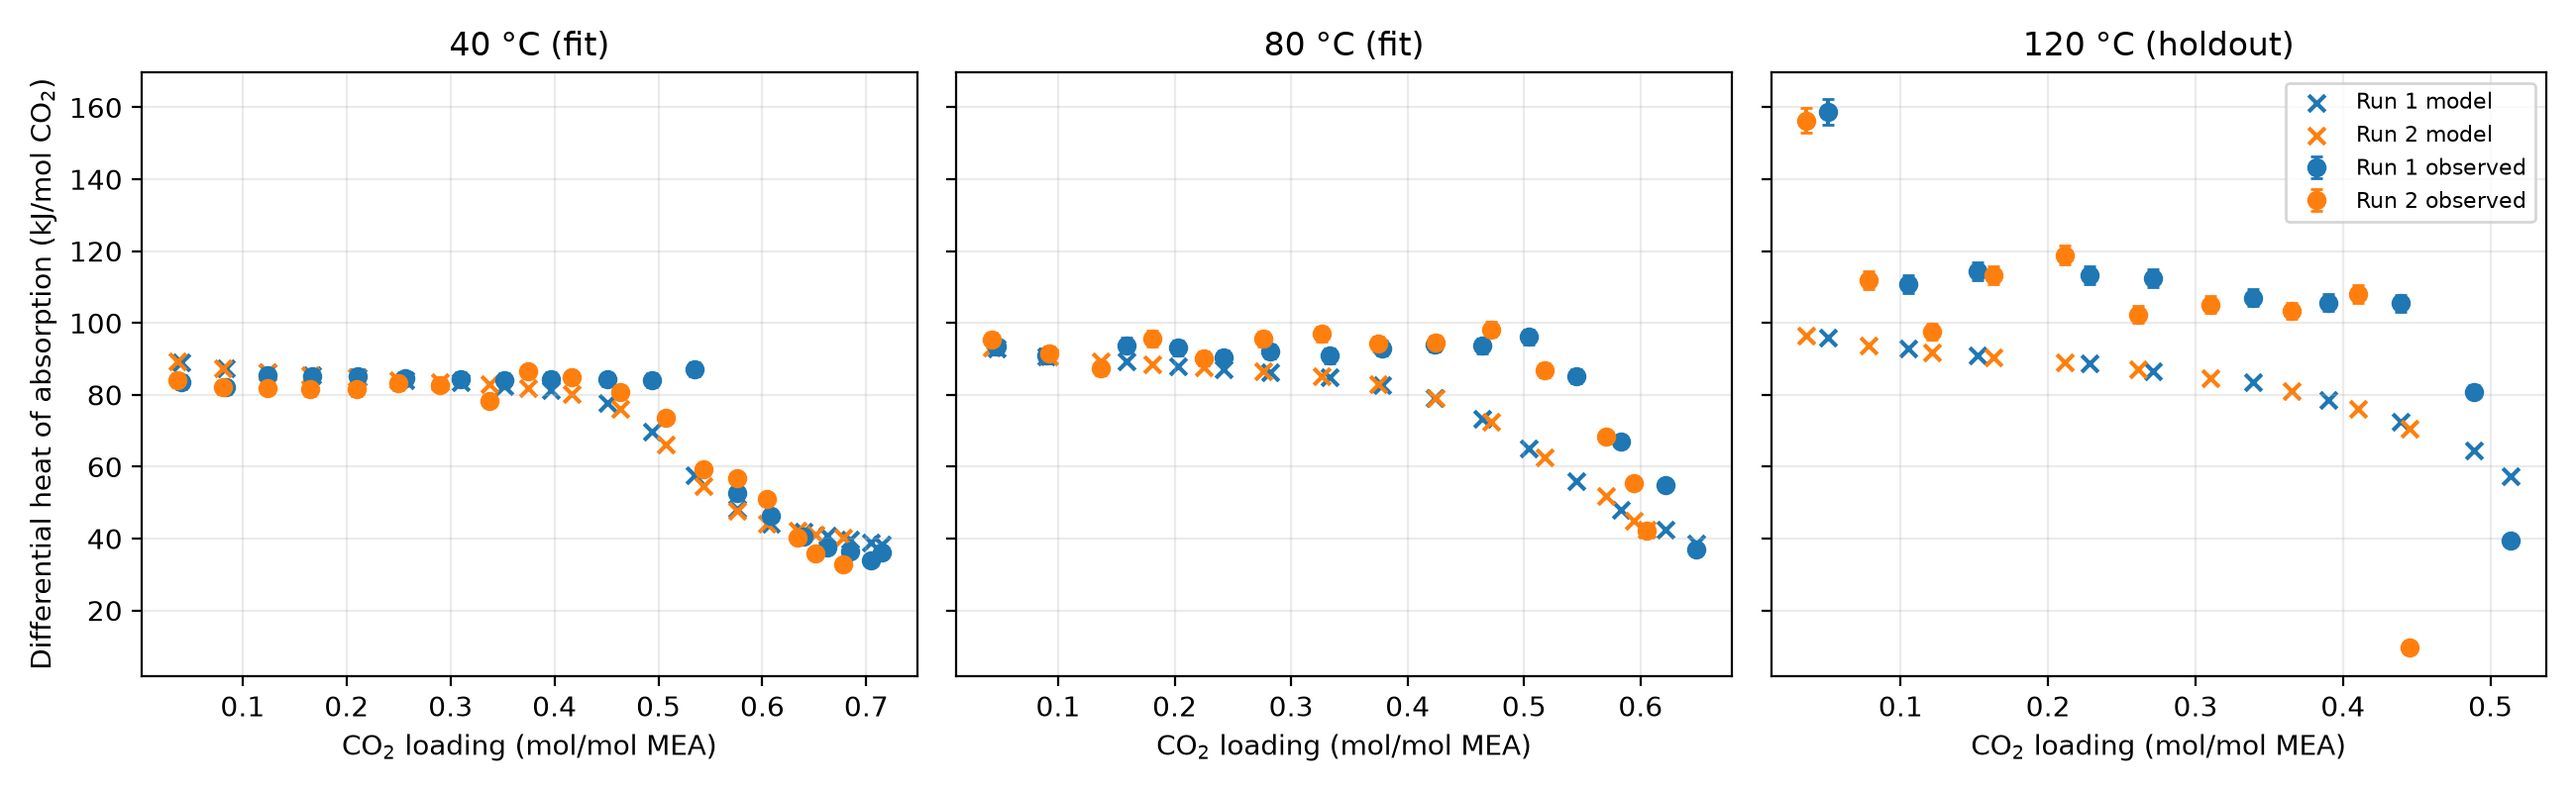
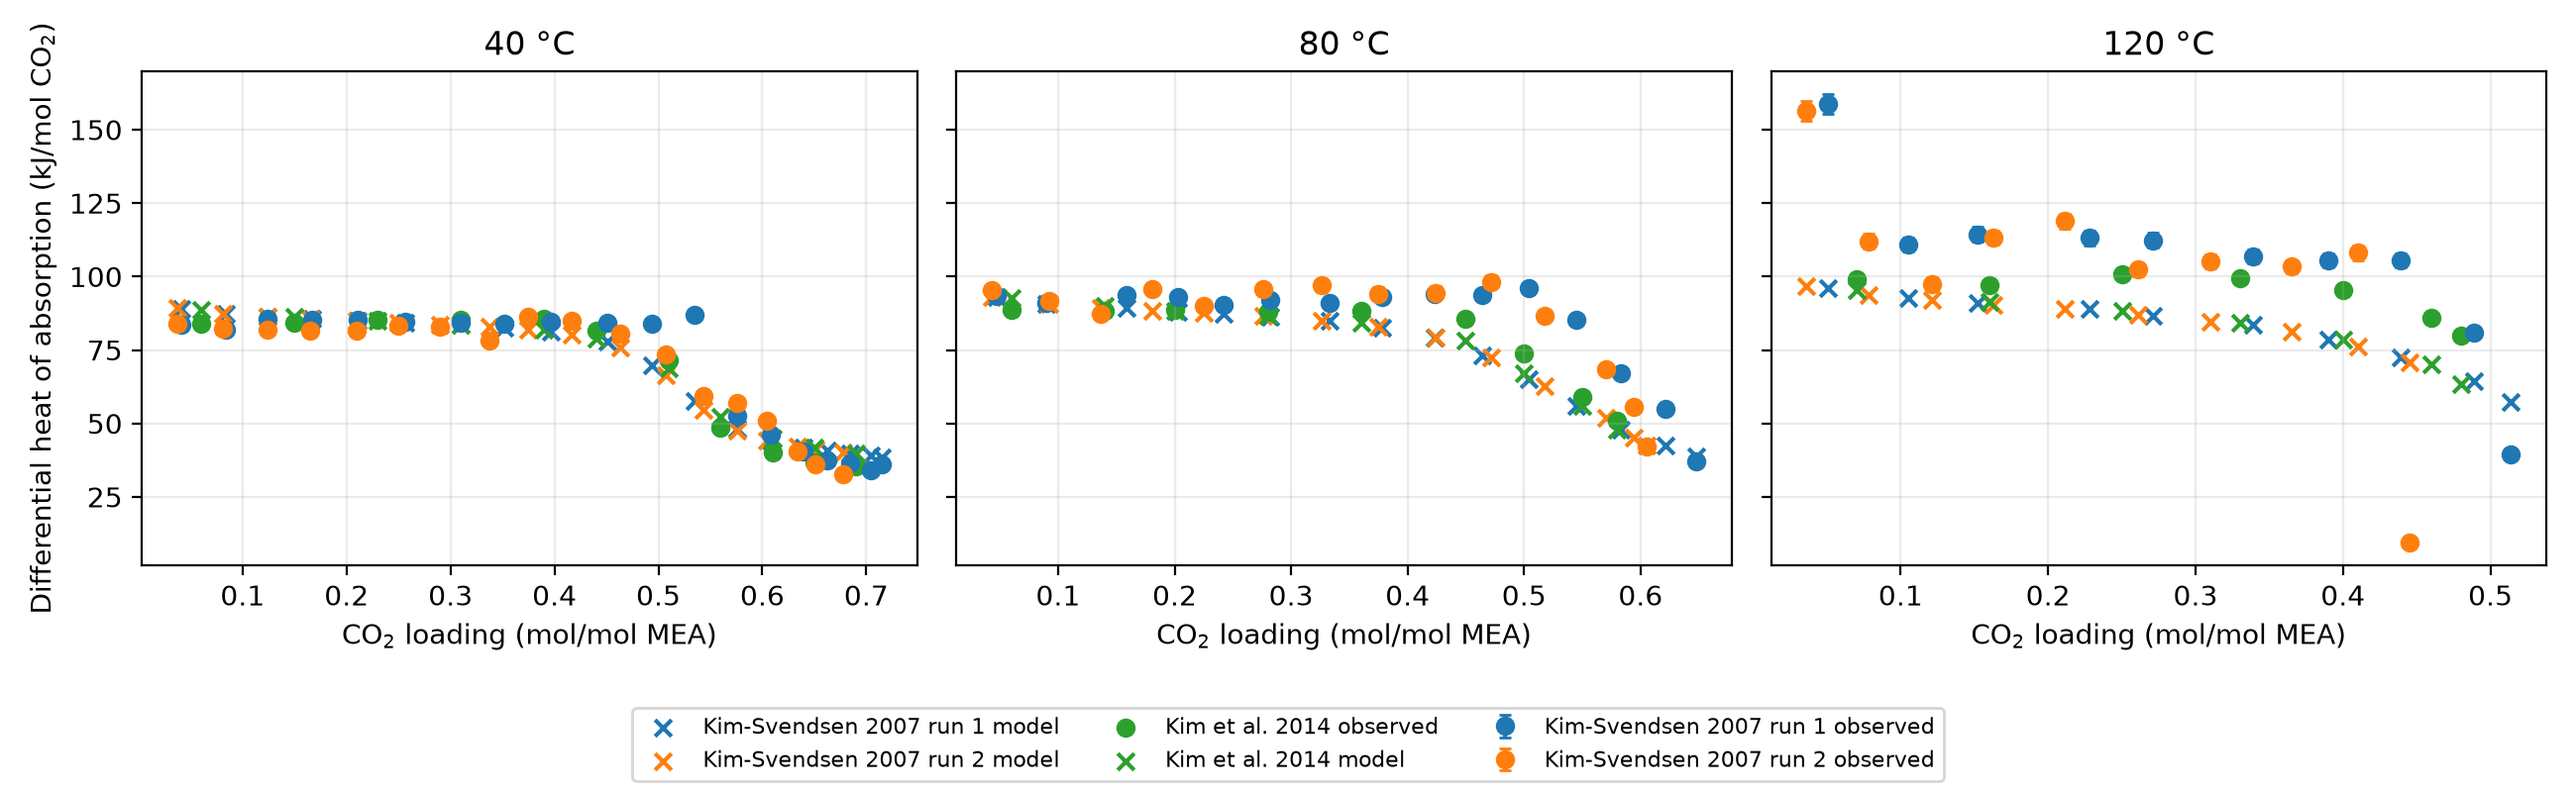
validate calorimetry against Kim 2014

diff --git a/Calorimetry_Validation.py b/Calorimetry_Validation.py
@@ -20,10 +20,24 @@ PLOT_FILE = os.path.join("data", "Plots", "Calorimetry_Validation.png")
 
 
 def generate():
-    observations = pd.read_csv(
-        os.path.join("data", "data_sets_to_load", "kim_2007_dHabs.csv")
+    inputs = [
+        ("Kim and Svendsen 2007", "kim_2007_dHabs.csv", 0.022),
+        ("Kim et al. 2014", "kim_2014_dHabs.csv", None),
+    ]
+    observations = pd.concat(
+        [
+            pd.read_csv(os.path.join("data", "data_sets_to_load", filename)).assign(
+                source=source,
+            )
+            for source, filename, _ in inputs
+        ],
+        ignore_index=True,
     )
-    groups = list(observations.groupby(["temperature", "experiment"], sort=False))
+    observations["heat_uncertainty_fraction"] = observations.source.map(
+        {source: uncertainty for source, _, uncertainty in inputs}
+    )
+    group_columns = ["source", "temperature", "experiment"]
+    groups = list(observations.groupby(group_columns, sort=False))
 
     model = pyo.ConcreteModel()
     model.params = GenericParameterBlock(**get_prop_dict(species_dic["components"]))
@@ -50,7 +64,7 @@ def generate():
 
     records = []
     start = 0
-    for (_, experiment), group in groups:
+    for (source, _, experiment), group in groups:
         old = model.states[start]
         loading_start = 0.003
         for offset, (_, row) in enumerate(group.iterrows(), start=1):
@@ -61,15 +75,24 @@ def generate():
             observed = row["dH_abs"]
             records.append(
                 {
+                    "source": source,
                     "temperature_C": row["temperature"],
                     "experiment": row["experiment"],
-                    "role": "fit" if bool(row["fit"]) else "holdout",
+                    "role": (
+                        "fit"
+                        if bool(row["fit"])
+                        else "external validation"
+                        if source == "Kim et al. 2014"
+                        else "temperature holdout"
+                    ),
                     "loading_start": loading_start,
                     "loading_end": row["CO2_loading"],
                     "observed_kJ_mol_CO2": observed,
                     "predicted_kJ_mol_CO2": predicted,
                     "residual_kJ_mol_CO2": predicted - observed,
-                    "observed_uncertainty_kJ_mol_CO2": 0.022 * observed,
+                    "observed_uncertainty_kJ_mol_CO2": (
+                        row["heat_uncertainty_fraction"] * observed
+                    ),
                 }
             )
             old = current
@@ -77,14 +100,17 @@ def generate():
         start += len(group) + 1
 
     result = pd.DataFrame(records)
-    assert len(result) == 86
-    assert result.groupby(["temperature_C", "experiment"])["loading_end"].apply(
+    assert len(result) == 113
+    assert result.groupby(["source", "temperature_C", "experiment"])["loading_end"].apply(
         lambda values: values.is_monotonic_increasing
     ).all()
     result.to_csv(DATA_FILE, index=False)
-    for role, group in result.groupby("role"):
+    for (source, role, temperature), group in result.groupby(
+        ["source", "role", "temperature_C"], sort=False
+    ):
         print(
-            f"{role}: n={len(group)}, MAE={group.residual_kJ_mol_CO2.abs().mean():.4f}, "
+            f"{source}, {temperature:g} C, {role}: n={len(group)}, "
+            f"MAE={group.residual_kJ_mol_CO2.abs().mean():.4f}, "
             f"RMSE={(group.residual_kJ_mol_CO2.pow(2).mean()) ** 0.5:.4f}, "
             f"bias={group.residual_kJ_mol_CO2.mean():.4f} kJ/mol"
         )
@@ -95,31 +121,46 @@ def render():
     fig, axes = plt.subplots(1, 3, figsize=(13, 4), sharey=True)
     for axis, temperature in zip(axes, (40, 80, 120)):
         subset = data[data.temperature_C == temperature]
-        for experiment, group in subset.groupby("experiment"):
-            color = f"C{int(experiment) - 1}"
-            axis.errorbar(
-                group.loading_end,
-                group.observed_kJ_mol_CO2,
-                yerr=group.observed_uncertainty_kJ_mol_CO2,
-                fmt="o",
-                color=color,
-                capsize=2,
-                label=f"Run {int(experiment)} observed",
+        for (source, experiment), group in subset.groupby(["source", "experiment"]):
+            color = "C2" if source == "Kim et al. 2014" else f"C{int(experiment) - 1}"
+            label = (
+                "Kim et al. 2014"
+                if source == "Kim et al. 2014"
+                else f"Kim-Svendsen 2007 run {int(experiment)}"
             )
+            uncertainty = group.observed_uncertainty_kJ_mol_CO2
+            if uncertainty.notna().any():
+                axis.errorbar(
+                    group.loading_end,
+                    group.observed_kJ_mol_CO2,
+                    yerr=uncertainty,
+                    fmt="o",
+                    color=color,
+                    capsize=2,
+                    label=f"{label} observed",
+                )
+            else:
+                axis.scatter(
+                    group.loading_end,
+                    group.observed_kJ_mol_CO2,
+                    marker="o",
+                    color=color,
+                    label=f"{label} observed",
+                )
             axis.scatter(
                 group.loading_end,
                 group.predicted_kJ_mol_CO2,
                 marker="x",
                 color=color,
-                label=f"Run {int(experiment)} model",
+                label=f"{label} model",
             )
-        role = subset.role.iloc[0]
-        axis.set_title(f"{temperature} °C ({role})")
+        axis.set_title(f"{temperature} °C")
         axis.set_xlabel("CO$_2$ loading (mol/mol MEA)")
         axis.grid(alpha=0.25)
     axes[0].set_ylabel("Differential heat of absorption (kJ/mol CO$_2$)")
-    axes[-1].legend(fontsize=8)
-    fig.tight_layout()
+    handles, labels = axes[0].get_legend_handles_labels()
+    fig.legend(handles, labels, loc="outside lower center", ncol=3, fontsize=8)
+    fig.tight_layout(rect=(0, 0.14, 1, 1))
     fig.savefig(PLOT_FILE, dpi=200)
     plt.close(fig)
 

diff --git a/Load_Datasets.py b/Load_Datasets.py
@@ -47,7 +47,10 @@ def add_VLE_dataset(params, df, column_names, species_dic, get_mole_fraction, ob
 
 def add_ABS_dataset(m, params, df, column_names, species_dic, get_mole_fraction, obj_expr):
     idx_start = 0
-    group_columns = [column_names['temperature'], 'experiment']
+    group_columns = (
+        (['source'] if 'source' in df.columns else [])
+        + [column_names['temperature'], 'experiment']
+    )
     for _, experiment in df.groupby(group_columns, sort=False):
         T = experiment.iloc[0][column_names['temperature']] + 273.15
 
@@ -136,11 +139,14 @@ def load_datasets(m, obj_expr, dataset_dir, species_dic, get_mole_fraction, colu
         dataset_type = dataset_type.split('.')[0]
         df = pd.read_csv(filename, index_col=None)
         dfs.append(df)
-        param_block_name = name + '_' + dataset_type
+        param_block_name = name + '_' + year + '_' + dataset_type
         param_block_names.append(param_block_name)
 
         if dataset_type == 'dHabs':
             fit_df = df[df['fit'].astype(bool)]
+            if fit_df.empty:
+                param_block_names.pop()
+                continue
             n_experiments = fit_df.groupby([column_names['temperature'], 'experiment']).ngroups
             setattr(m, param_block_name, m.params.build_state_block(range(len(fit_df) + n_experiments),
                                                                     defined_state=True))

diff --git a/absorber_readiness_analysis.md b/absorber_readiness_analysis.md
@@ -52,6 +52,18 @@ MEA + CO2 + H2O <-> MEAH+ + HCO3-
 
 **reference-backed:** Akula et al. fit the 66 Kim-Svendsen points at 40 and 80 C and exclude the 120 C series because prior literature identified thermodynamic inconsistency at and above 373 K. Their objective heat weight of `0.2` belongs to a larger ten-parameter standard-state and ion-pair regression, not this six-parameter reaction-only fit.
 
+### Independent Kim et al. (2014) validation
+
+**verified:** Kim et al. Table A1-1 on p. 1455 contains 27 semi-differential observations for 30 wt% MEA: 11 at 40 C, 9 at 80 C, and 7 at 120 C. All 27 are retained with `fit=0`; none influence the fitted parameters.
+
+**verified:** The current model gives MAE values of `3.25`, `3.49`, and `12.26 kJ/mol CO2` at 40, 80, and 120 C, respectively. The corresponding biases are `+1.15`, `-2.22`, and `-12.26 kJ/mol CO2`. Every 120 C prediction is below its observation.
+
+**verified:** Kim et al. report temperature-sensor accuracy, pressure-transducer accuracy, calorimeter sensitivity, and agreement within 5% between loading from liquid analysis and flowmeter readings. They do not report a direct percentage uncertainty for heat of absorption, so the retained 2014 rows have no invented heat-error bars.
+
+**inference:** Agreement at 40 and 80 C rejects a general failure of the semi-differential enthalpy expression. The one-sided 120 C residual identifies high-temperature caloric temperature dependence as the remaining model or data disagreement.
+
+**verified:** Kim et al. state on p. 1448 that their 80 and 120 C heats are approximately 5% and 10% lower than the earlier 2007 values and found no reasonable explanation. The 2014 result therefore narrows the discrepancy but does not establish that either high-temperature source is unbiased.
+
 ## Weight selection
 
 | Heat weight | Pressure MAPE | Heat MAE (fit) | Hessian condition | Decision |
@@ -94,9 +106,9 @@ MEA + CO2 + H2O <-> MEAH+ + HCO3-
 
 ## Recommended next scientific step
 
-1. Acquire the independent Kim et al. calorimetry series used by Akula et al. and retain its source uncertainty and run identity.
-2. Test the present model against that data without fitting.
-3. If the temperature bias persists, fit one physically selected standard-state heat-capacity contribution at a time and require improvement on a source-level or temperature holdout before retaining it.
+1. Profile the two existing reaction `Delta Cp` coordinates against the 2014 validation residuals while refitting the other coordinates to the original objective.
+2. Retain a shift only if it improves the independent 120 C comparison without materially degrading VLE, speciation, or the independent 40 and 80 C comparisons.
+3. Add a standard-state heat-capacity contribution only if neither existing reaction coordinate can satisfy that comparison and the new coordinate remains identifiable.
 4. Propagate the resulting correlated prediction range through a small isothermal column case before enabling the energy balance in a full absorber.
 
 Do not fit the 120 C Kim-Svendsen holdout merely to lower its error. Its failure is useful evidence that the current caloric temperature dependence is not transferable.
@@ -114,4 +126,5 @@ The retained comparison values are in `data/Plots/Calorimetry_Validation.csv`; t
 ## Primary references
 
 - Kim and Svendsen, “Heat of Absorption of Carbon Dioxide (CO2) in Monoethanolamine (MEA) and 2-(Aminoethyl)ethanolamine,” *Industrial & Engineering Chemistry Research* 46, 5803-5809, 2007, [doi:10.1021/ie0616489](https://doi.org/10.1021/ie0616489).
+- Kim, Hoff, and Mejdell, “Heat of Absorption of CO2 with Aqueous Solutions of MEA: New Experimental Data,” *Energy Procedia* 63, 1446-1455, 2014, [doi:10.1016/j.egypro.2014.11.154](https://doi.org/10.1016/j.egypro.2014.11.154).
 - Akula et al., “A Modified Electrolyte Non-Random Two-Liquid Model with Analytical Expression for Excess Enthalpy: Application to the MEA-H2O-CO2 System,” *AIChE Journal* 69(1), 2023, [doi:10.1002/aic.17935](https://doi.org/10.1002/aic.17935).
